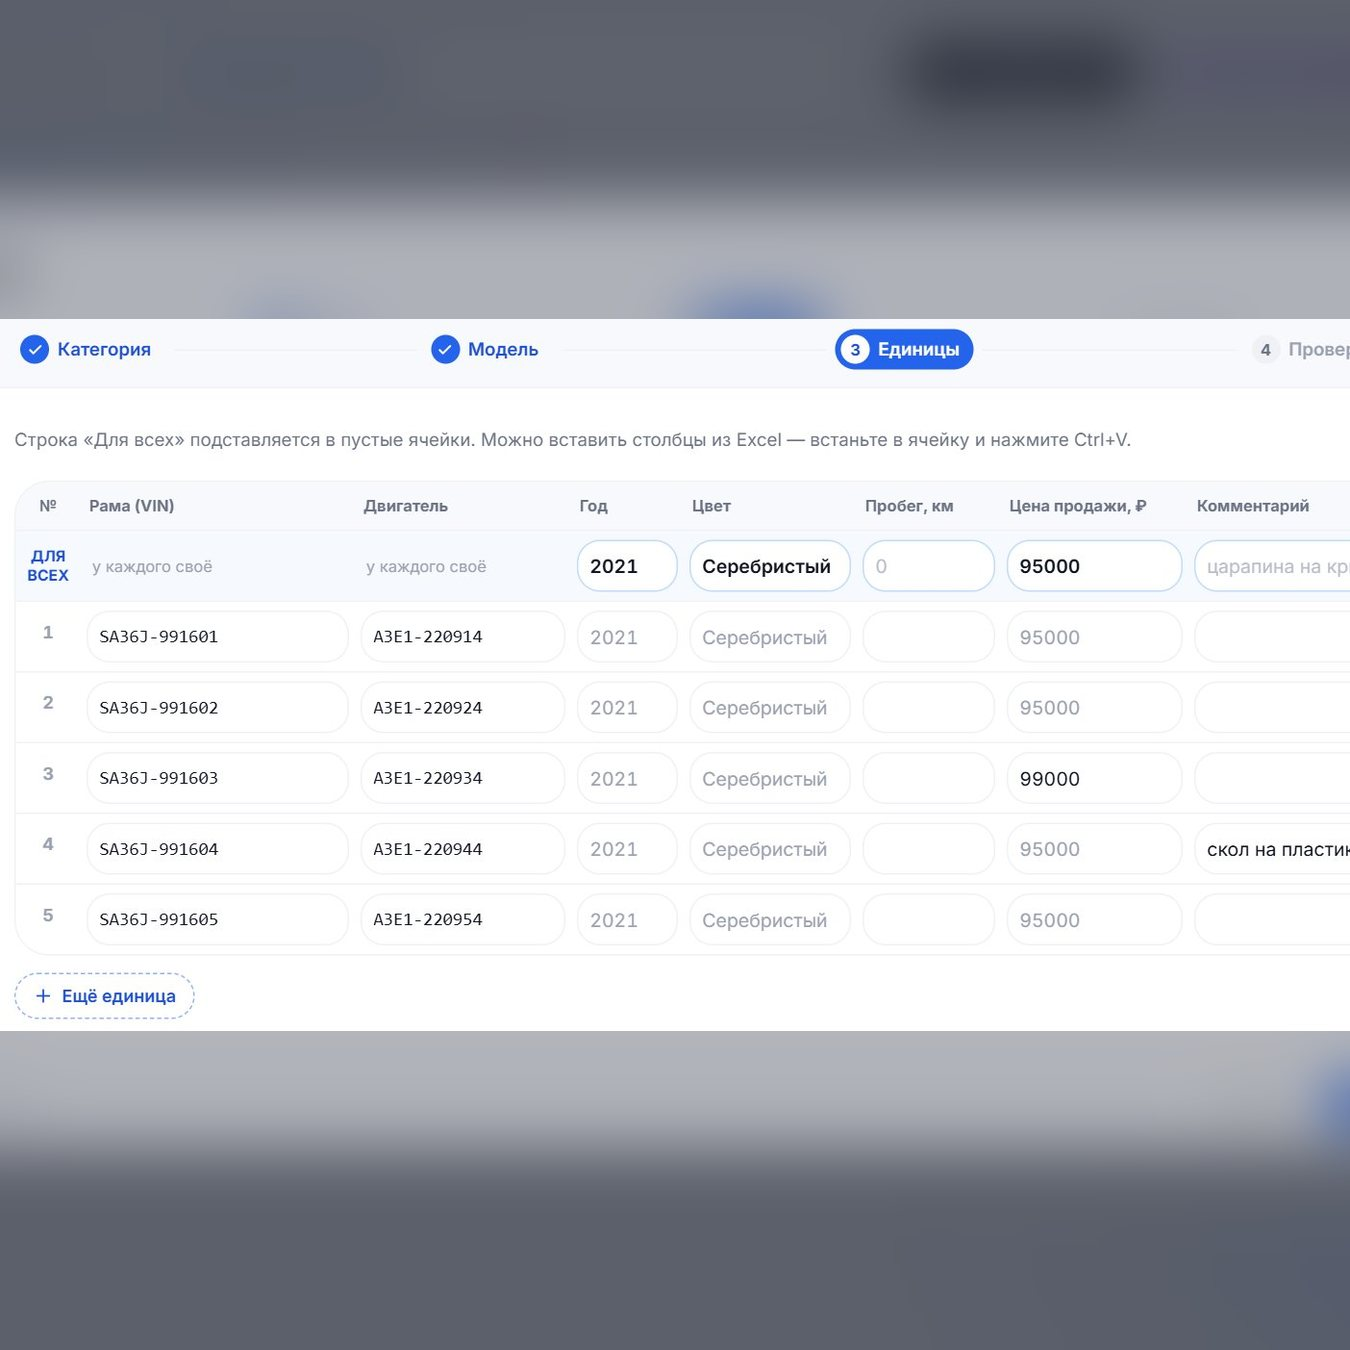
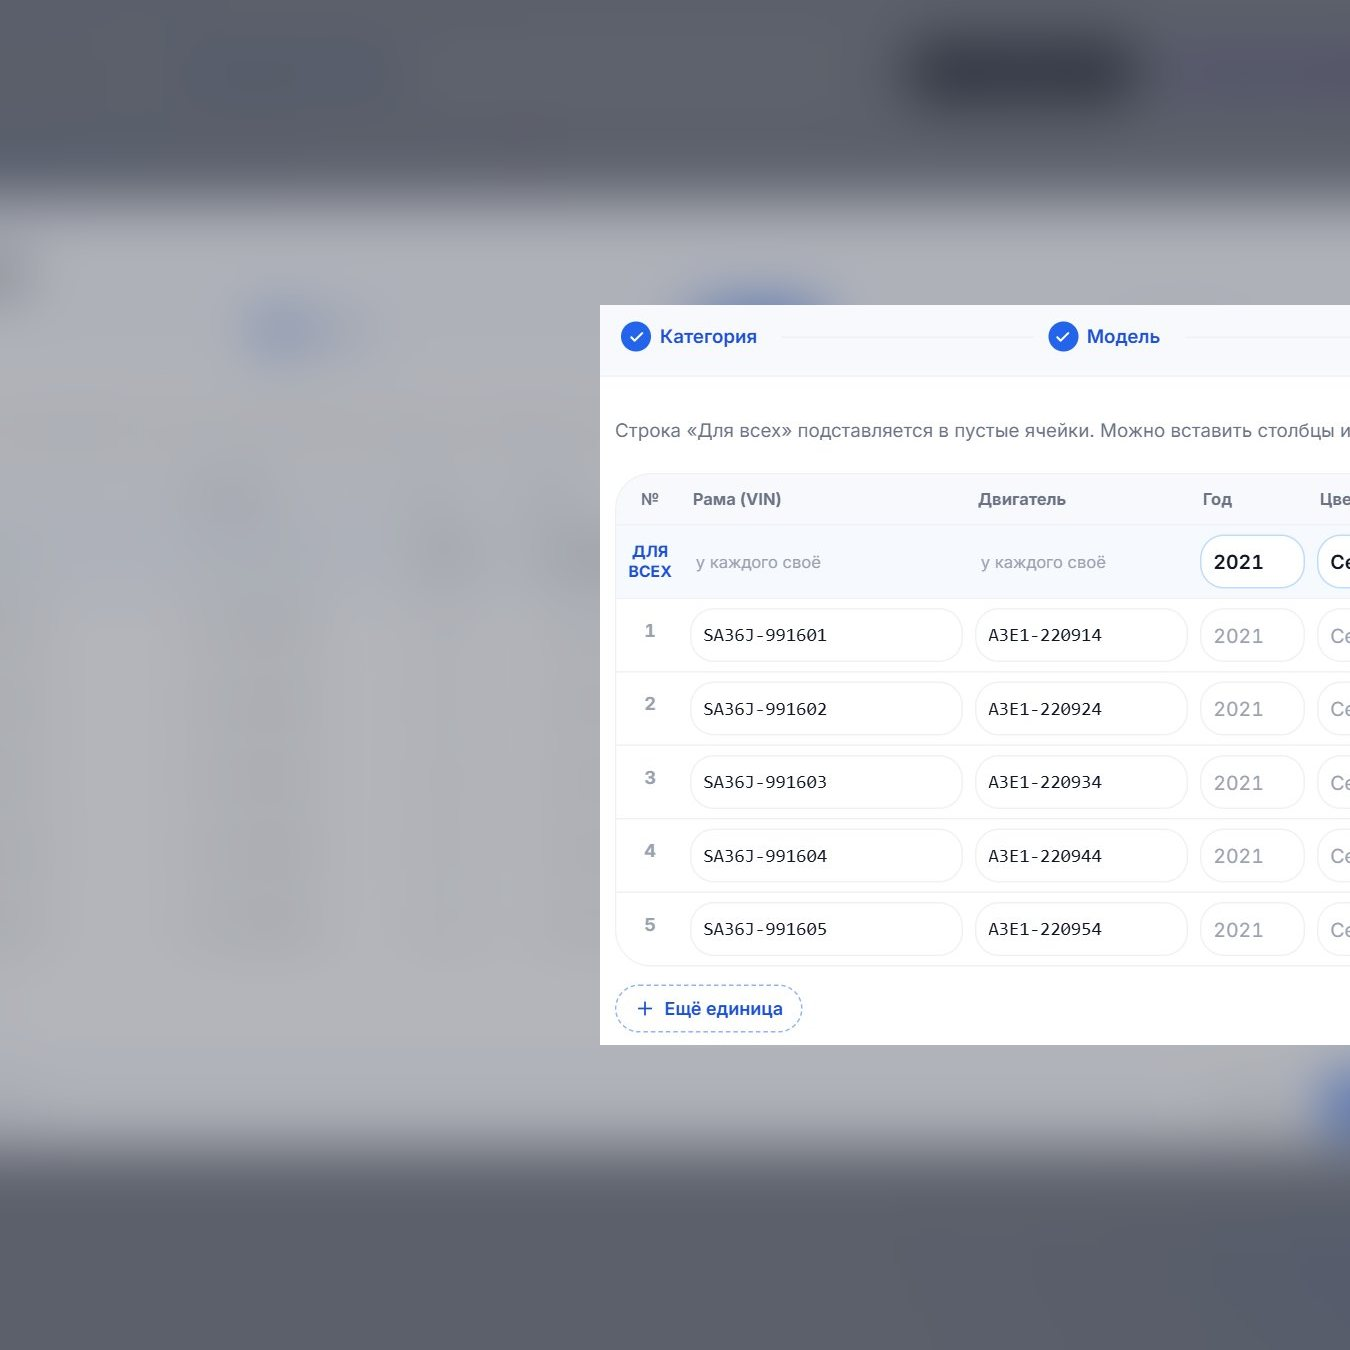
fix(показ обновления): продолжать с последней показанной карточки; «Позже» откладывает и подсказки
- телефон: при повторной отрисовке первая карточка 2.0.1 проскакивала —
  отметка ставится при показе, продолжаем с неё, а не со следующей
- после «Посмотрю позже» подсказки на месте не всплывают до нового входа
- слайд «Партия»: рамы и двигатели сразу справа от линии сравнения

Проверено: компьютер (3 карточки, «Готово»), телефон (2 карточки, «Позже»).

diff --git a/apps/web/src/release/ReleaseTour.tsx b/apps/web/src/release/ReleaseTour.tsx
@@ -156,7 +156,9 @@ export function ReleaseTour({
     if (started.current === cfg.version || phase !== "none") return;
     started.current = cfg.version;
     if (laterNow) return;
-    const seen = Math.min(view?.cardsSeen ?? 0, cards.length - 1);
+    // Продолжаем с последней ПОКАЗАННОЙ карточки: отметка ставится при показе,
+    // а не при прочтении, и повторная отрисовка не должна её пропускать.
+    const seen = Math.min(Math.max(0, (view?.cardsSeen ?? 0) - 1), cards.length - 1);
     if (cfg.major && (view?.cardsSeen ?? 0) === 0) setPhase("intro");
     else {
       setCardIdx(Math.max(0, seen));
@@ -239,6 +241,8 @@ export function ReleaseTour({
     // Пока открыт титул или карточки — подсказок нет. Таймер снимается, если
     // в этот же момент открылся показ: иначе подсказка перебила бы титул.
     if (phase !== "none" || hintsTried.current.has(route)) return;
+    // «Посмотрю позже» — и подсказки ждут следующего входа.
+    if (laterNow) return;
     // Подсказки на месте — из любого выпуска, у кого они ещё не закрыты.
     let found: { item: TourItem; version: string } | null = null;
     for (const r of RELEASE_TOURS) {
@@ -263,7 +267,7 @@ export function ReleaseTour({
     }, 900);
     return () => window.clearTimeout(t);
     // eslint-disable-next-line react-hooks/exhaustive-deps
-  }, [route, phase, viewsQ.data]);
+  }, [route, phase, viewsQ.data, laterNow]);
 
   const hintOk = () => {
     const h = queue[qi];
@@ -290,7 +294,7 @@ export function ReleaseTour({
   };
 
   const resume = () => {
-    const idx = Math.min(view?.cardsSeen ?? 0, cards.length - 1);
+    const idx = Math.min(Math.max(0, (view?.cardsSeen ?? 0) - 1), cards.length - 1);
     setCardIdx(Math.max(0, idx));
     setEntering(!reduceMotion());
     setPhase("cards");

diff --git a/scripts/shots/release-frames-2.0.1.py b/scripts/shots/release-frames-2.0.1.py
@@ -37,6 +37,22 @@ def square(name: str, box: tuple[int, int, int, int], out: str) -> None:
     print(out, bg.size)
 
 
+def offset(name: str, box: tuple[int, int, int, int], at_x: int, out: str) -> None:
+    """Область без масштаба, левым краем в точке at_x квадрата: справа от
+    линии сравнения (она стоит посередине) сразу видно главное."""
+    im = Image.open(SRC / f"{name}.jpg").convert("RGB")
+    region = im.crop(box)
+    kb = max(SIDE / im.width, SIDE / im.height)
+    bg = im.resize((round(im.width * kb), round(im.height * kb)), Image.LANCZOS)
+    left = (bg.width - SIDE) // 2
+    top = (bg.height - SIDE) // 2
+    bg = bg.crop((left, top, left + SIDE, top + SIDE)).filter(ImageFilter.GaussianBlur(28))
+    bg = Image.blend(bg, Image.new("RGB", bg.size, (40, 46, 60)), 0.35)
+    bg.paste(region, (at_x, (SIDE - region.height) // 2))
+    bg.save(OUT / f"{out}.jpg", quality=84, optimize=True)
+    print(out, bg.size)
+
+
 def phone(name: str, out: str) -> None:
     im = Image.open(SRC / f"{name}.jpg").convert("RGB")
     im.save(OUT / f"{out}.jpg", quality=84, optimize=True)
@@ -50,7 +66,8 @@ square("addsc-now-1-category", CENTER, "d-add-now")
 
 # Партия: одна форма → таблица на все единицы (окно шире — вписываем).
 square("addsc-was-1-top", CENTER, "d-batch-was")
-square("addsc-now-3-table", (216, 300, 1620, 1040), "d-batch-now")
+# Номер строки и рамы — сразу справа от линии, дальше двигатель, год, цвет.
+offset("addsc-now-3-table", (216, 300, 1080, 1040), 600, "d-batch-now")
 
 # Модели: форма с тарифами → «Продаём» без тарифов.
 MODEL_FORM = (360, 80, 1800, 1350)
